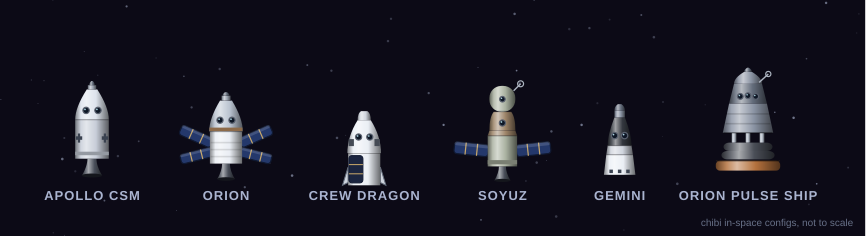
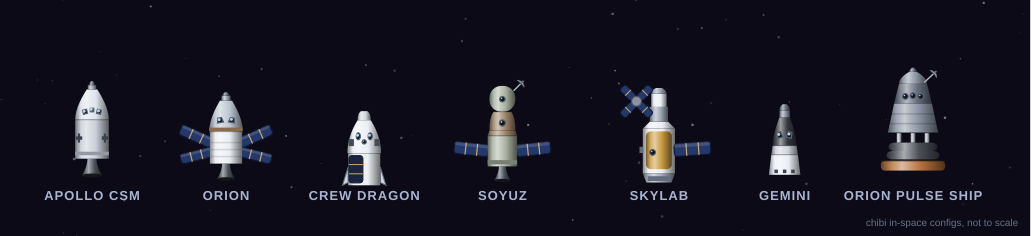
Add chibi Skylab; per-craft window shapes; antenna dishes
Skylab joins the chibi set: S-IVB aft skirt, gold parasol sun shade,
wardroom porthole, the one surviving solar wing (plus the torn-off
stub), airlock + docking adapter, and the Apollo Telescope Mount
windmill. Windows are now per-vehicle instead of one reused pair of
round portholes: Apollo CM gets its small square panes, Orion gets
trapezoids, Crew Dragon gets tall ovals + round hatch pane, Gemini
gets its slanted wedge windows. The antenna booms on Soyuz and the
Orion pulse ship now end in a recognizable parabolic dish instead of
a bare circle. Still concepts only.

https://claude.ai/code/session_015RLF7ApgnkyEM9Q6HBNry7

diff --git a/assets/background-rockets/README.md b/assets/background-rockets/README.md
@@ -33,6 +33,7 @@ scenes where a first stage would be nonsense. Not to a shared scale.
 | `chibi-orion.svg` | Orion spacecraft (crew module + ESM with X-wing solar arrays) |
 | `chibi-crew-dragon.svg` | Crew Dragon (capsule + trunk) |
 | `chibi-soyuz.svg` | Soyuz spacecraft (orbital module + descent module + service module) |
+| `chibi-skylab.svg` | Skylab (gold parasol, surviving solar wing, ATM windmill) |
 | `chibi-gemini.svg` | Gemini spacecraft (re-entry module + adapter) |
 | `chibi-orion-pulse-ship.svg` | Project Orion pulse ship (it IS its own interplanetary vehicle) |
 
